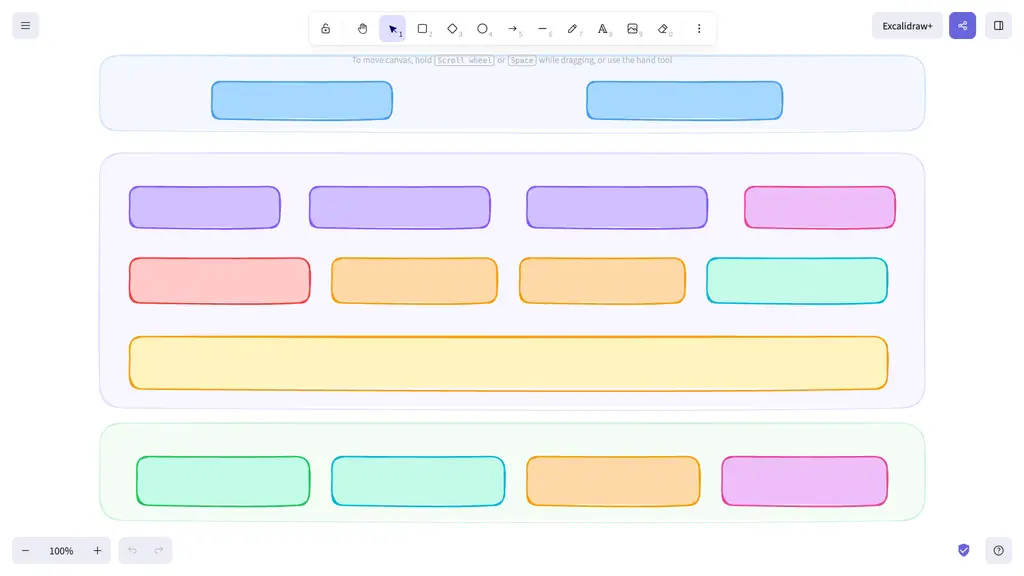
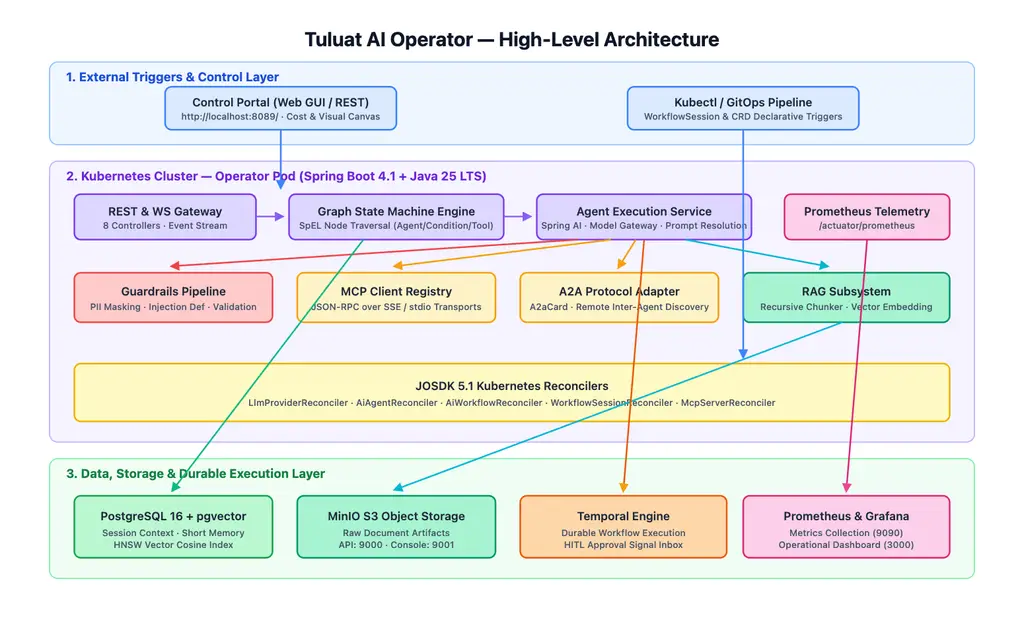
docs: replace architecture diagram PNG with high-resolution vector rendered diagram
- generated high-contrast, fully populated architecture diagram PNG with crisp typography and exact component labels
- added source SVG/HTML template at docs/assets/architecture-diagram.html

diff --git a/docs/assets/architecture-diagram.html b/docs/assets/architecture-diagram.html
@@ -1,0 +1,224 @@
+<!DOCTYPE html>
+<html>
+<head>
+<meta charset="utf-8">
+<style>
+  body {
+    margin: 0;
+    padding: 20px;
+    background: #ffffff;
+    font-family: -apple-system, BlinkMacSystemFont, "Segoe UI", Roboto, Helvetica, Arial, sans-serif;
+  }
+  .canvas {
+    width: 1200px;
+    height: 720px;
+    background: #ffffff;
+    position: relative;
+    border-radius: 12px;
+    box-sizing: border-box;
+  }
+  svg {
+    width: 100%;
+    height: 100%;
+  }
+  text {
+    font-family: -apple-system, BlinkMacSystemFont, "Segoe UI", Roboto, sans-serif;
+    user-select: none;
+  }
+  .title {
+    font-size: 24px;
+    font-weight: 700;
+    fill: #0f172a;
+  }
+  .section-title {
+    font-size: 15px;
+    font-weight: 700;
+  }
+  .box-text {
+    font-size: 14px;
+    font-weight: 600;
+    fill: #1e293b;
+    text-anchor: middle;
+    dominant-baseline: middle;
+  }
+  .box-subtext {
+    font-size: 11px;
+    font-weight: 500;
+    fill: #475569;
+    text-anchor: middle;
+    dominant-baseline: middle;
+  }
+</style>
+</head>
+<body>
+<div class="canvas">
+<svg viewBox="0 0 1200 720">
+  <defs>
+    <marker id="arrow-blue" viewBox="0 0 10 10" refX="6" refY="5" markerWidth="6" markerHeight="6" orient="auto-start-reverse">
+      <path d="M 0 0 L 10 5 L 0 10 z" fill="#3b82f6"/>
+    </marker>
+    <marker id="arrow-purple" viewBox="0 0 10 10" refX="6" refY="5" markerWidth="6" markerHeight="6" orient="auto-start-reverse">
+      <path d="M 0 0 L 10 5 L 0 10 z" fill="#8b5cf6"/>
+    </marker>
+    <marker id="arrow-green" viewBox="0 0 10 10" refX="6" refY="5" markerWidth="6" markerHeight="6" orient="auto-start-reverse">
+      <path d="M 0 0 L 10 5 L 0 10 z" fill="#10b981"/>
+    </marker>
+    <marker id="arrow-amber" viewBox="0 0 10 10" refX="6" refY="5" markerWidth="6" markerHeight="6" orient="auto-start-reverse">
+      <path d="M 0 0 L 10 5 L 0 10 z" fill="#f59e0b"/>
+    </marker>
+    <marker id="arrow-pink" viewBox="0 0 10 10" refX="6" refY="5" markerWidth="6" markerHeight="6" orient="auto-start-reverse">
+      <path d="M 0 0 L 10 5 L 0 10 z" fill="#ec4899"/>
+    </marker>
+    <marker id="arrow-teal" viewBox="0 0 10 10" refX="6" refY="5" markerWidth="6" markerHeight="6" orient="auto-start-reverse">
+      <path d="M 0 0 L 10 5 L 0 10 z" fill="#06b6d4"/>
+    </marker>
+    <marker id="arrow-red" viewBox="0 0 10 10" refX="6" refY="5" markerWidth="6" markerHeight="6" orient="auto-start-reverse">
+      <path d="M 0 0 L 10 5 L 0 10 z" fill="#ef4444"/>
+    </marker>
+  </defs>
+
+  <!-- Title -->
+  <text x="600" y="36" class="title" text-anchor="middle">Tuluat AI Operator — High-Level Architecture</text>
+
+  <!-- 1. External Triggers Zone -->
+  <rect x="40" y="55" width="1120" height="100" rx="10" fill="#eff6ff" stroke="#93c5fd" stroke-width="1.5"/>
+  <text x="60" y="78" class="section-title" fill="#1d4ed8">1. External Triggers & Control Layer</text>
+
+  <!-- External Nodes -->
+  <g transform="translate(180, 85)">
+    <rect x="0" y="0" width="280" height="52" rx="8" fill="#dbeafe" stroke="#3b82f6" stroke-width="2"/>
+    <text x="140" y="20" class="box-text">Control Portal (Web GUI / REST)</text>
+    <text x="140" y="37" class="box-subtext">http://localhost:8089/ · Cost & Visual Canvas</text>
+  </g>
+
+  <g transform="translate(740, 85)">
+    <rect x="0" y="0" width="280" height="52" rx="8" fill="#dbeafe" stroke="#3b82f6" stroke-width="2"/>
+    <text x="140" y="20" class="box-text">Kubectl / GitOps Pipeline</text>
+    <text x="140" y="37" class="box-subtext">WorkflowSession & CRD Declarative Triggers</text>
+  </g>
+
+  <!-- 2. K8s Cluster Zone -->
+  <rect x="40" y="175" width="1120" height="340" rx="10" fill="#f5f3ff" stroke="#c4b5fd" stroke-width="1.5"/>
+  <text x="60" y="198" class="section-title" fill="#6d28d9">2. Kubernetes Cluster — Operator Pod (Spring Boot 4.1 + Java 25 LTS)</text>
+
+  <!-- Core Operator Sub-services -->
+  <!-- REST & WS -->
+  <g transform="translate(70, 215)">
+    <rect x="0" y="0" width="220" height="55" rx="8" fill="#ddd6fe" stroke="#7c3aed" stroke-width="2"/>
+    <text x="110" y="22" class="box-text">REST & WS Gateway</text>
+    <text x="110" y="39" class="box-subtext">8 Controllers · Event Stream</text>
+  </g>
+
+  <!-- Graph Engine -->
+  <g transform="translate(330, 215)">
+    <rect x="0" y="0" width="260" height="55" rx="8" fill="#ddd6fe" stroke="#7c3aed" stroke-width="2"/>
+    <text x="130" y="22" class="box-text">Graph State Machine Engine</text>
+    <text x="130" y="39" class="box-subtext">SpEL Node Traversal (Agent/Condition/Tool)</text>
+  </g>
+
+  <!-- Agent Execution -->
+  <g transform="translate(630, 215)">
+    <rect x="0" y="0" width="260" height="55" rx="8" fill="#ddd6fe" stroke="#7c3aed" stroke-width="2"/>
+    <text x="130" y="22" class="box-text">Agent Execution Service</text>
+    <text x="130" y="39" class="box-subtext">Spring AI · Model Gateway · Prompt Resolution</text>
+  </g>
+
+  <!-- Telemetry -->
+  <g transform="translate(930, 215)">
+    <rect x="0" y="0" width="200" height="55" rx="8" fill="#fbcfe8" stroke="#db2777" stroke-width="2"/>
+    <text x="100" y="22" class="box-text">Prometheus Telemetry</text>
+    <text x="100" y="39" class="box-subtext">/actuator/prometheus</text>
+  </g>
+
+  <!-- Sub-features Row 2 -->
+  <!-- Guardrails -->
+  <g transform="translate(70, 310)">
+    <rect x="0" y="0" width="240" height="60" rx="8" fill="#fecaca" stroke="#ef4444" stroke-width="2"/>
+    <text x="120" y="24" class="box-text">Guardrails Pipeline</text>
+    <text x="120" y="42" class="box-subtext">PII Masking · Injection Def · Validation</text>
+  </g>
+
+  <!-- MCP Registry -->
+  <g transform="translate(340, 310)">
+    <rect x="0" y="0" width="240" height="60" rx="8" fill="#fef3c7" stroke="#f59e0b" stroke-width="2"/>
+    <text x="120" y="24" class="box-text">MCP Client Registry</text>
+    <text x="120" y="42" class="box-subtext">JSON-RPC over SSE / stdio Transports</text>
+  </g>
+
+  <!-- A2A Adapter -->
+  <g transform="translate(610, 310)">
+    <rect x="0" y="0" width="240" height="60" rx="8" fill="#fef3c7" stroke="#f59e0b" stroke-width="2"/>
+    <text x="120" y="24" class="box-text">A2A Protocol Adapter</text>
+    <text x="120" y="42" class="box-subtext">A2aCard · Remote Inter-Agent Discovery</text>
+  </g>
+
+  <!-- RAG Service -->
+  <g transform="translate(880, 310)">
+    <rect x="0" y="0" width="250" height="60" rx="8" fill="#a7f3d0" stroke="#059669" stroke-width="2"/>
+    <text x="125" y="24" class="box-text">RAG Subsystem</text>
+    <text x="125" y="42" class="box-subtext">Recursive Chunker · Vector Embedding</text>
+  </g>
+
+  <!-- Reconcilers Row -->
+  <g transform="translate(70, 420)">
+    <rect x="0" y="0" width="1060" height="70" rx="8" fill="#fef9c3" stroke="#eab308" stroke-width="2"/>
+    <text x="530" y="28" class="box-text" font-size="15">JOSDK 5.1 Kubernetes Reconcilers</text>
+    <text x="530" y="48" class="box-subtext" font-size="12">LlmProviderReconciler · AiAgentReconciler · AiWorkflowReconciler · WorkflowSessionReconciler · McpServerReconciler</text>
+  </g>
+
+  <!-- 3. Storage & Infrastructure Zone -->
+  <rect x="40" y="535" width="1120" height="145" rx="10" fill="#f0fdf4" stroke="#86efac" stroke-width="1.5"/>
+  <text x="60" y="558" class="section-title" fill="#15803d">3. Data, Storage & Durable Execution Layer</text>
+
+  <!-- PostgreSQL -->
+  <g transform="translate(70, 580)">
+    <rect x="0" y="0" width="240" height="75" rx="8" fill="#bbf7d0" stroke="#16a34a" stroke-width="2"/>
+    <text x="120" y="26" class="box-text">PostgreSQL 16 + pgvector</text>
+    <text x="120" y="46" class="box-subtext">Session Context · Short Memory</text>
+    <text x="120" y="60" class="box-subtext">HNSW Vector Cosine Index</text>
+  </g>
+
+  <!-- MinIO -->
+  <g transform="translate(340, 580)">
+    <rect x="0" y="0" width="240" height="75" rx="8" fill="#a7f3d0" stroke="#059669" stroke-width="2"/>
+    <text x="120" y="26" class="box-text">MinIO S3 Object Storage</text>
+    <text x="120" y="46" class="box-subtext">Raw Document Artifacts</text>
+    <text x="120" y="60" class="box-subtext">API: 9000 · Console: 9001</text>
+  </g>
+
+  <!-- Temporal -->
+  <g transform="translate(610, 580)">
+    <rect x="0" y="0" width="250" height="75" rx="8" fill="#fed7aa" stroke="#ea580c" stroke-width="2"/>
+    <text x="125" y="26" class="box-text">Temporal Engine</text>
+    <text x="125" y="46" class="box-subtext">Durable Workflow Execution</text>
+    <text x="125" y="60" class="box-subtext">HITL Approval Signal Inbox</text>
+  </g>
+
+  <!-- Prometheus & Grafana -->
+  <g transform="translate(880, 580)">
+    <rect x="0" y="0" width="250" height="75" rx="8" fill="#fbcfe8" stroke="#db2777" stroke-width="2"/>
+    <text x="125" y="26" class="box-text">Prometheus & Grafana</text>
+    <text x="125" y="46" class="box-subtext">Metrics Collection (9090)</text>
+    <text x="125" y="60" class="box-subtext">Operational Dashboard (3000)</text>
+  </g>
+
+  <!-- Connectors / Arrows -->
+  <path d="M 320 137 L 320 205" fill="none" stroke="#3b82f6" stroke-width="2" marker-end="url(#arrow-blue)"/>
+  <path d="M 880 137 L 880 410" fill="none" stroke="#3b82f6" stroke-width="2" marker-end="url(#arrow-blue)"/>
+  <path d="M 290 242 L 320 242" fill="none" stroke="#8b5cf6" stroke-width="2" marker-end="url(#arrow-purple)"/>
+  <path d="M 590 242 L 620 242" fill="none" stroke="#8b5cf6" stroke-width="2" marker-end="url(#arrow-purple)"/>
+
+  <path d="M 680 270 L 190 302" fill="none" stroke="#ef4444" stroke-width="2" marker-end="url(#arrow-red)"/>
+  <path d="M 720 270 L 460 302" fill="none" stroke="#f59e0b" stroke-width="2" marker-end="url(#arrow-amber)"/>
+  <path d="M 750 270 L 730 302" fill="none" stroke="#f59e0b" stroke-width="2" marker-end="url(#arrow-amber)"/>
+  <path d="M 810 270 L 980 302" fill="none" stroke="#06b6d4" stroke-width="2" marker-end="url(#arrow-teal)"/>
+
+  <path d="M 420 270 L 190 572" fill="none" stroke="#10b981" stroke-width="2" marker-end="url(#arrow-green)"/>
+  <path d="M 1000 370 L 460 572" fill="none" stroke="#06b6d4" stroke-width="2" marker-end="url(#arrow-teal)"/>
+  <path d="M 760 270 L 735 572" fill="none" stroke="#ea580c" stroke-width="2" marker-end="url(#arrow-amber)"/>
+  <path d="M 1030 270 L 1005 572" fill="none" stroke="#db2777" stroke-width="2" marker-end="url(#arrow-pink)"/>
+
+</svg>
+</div>
+</body>
+</html>
